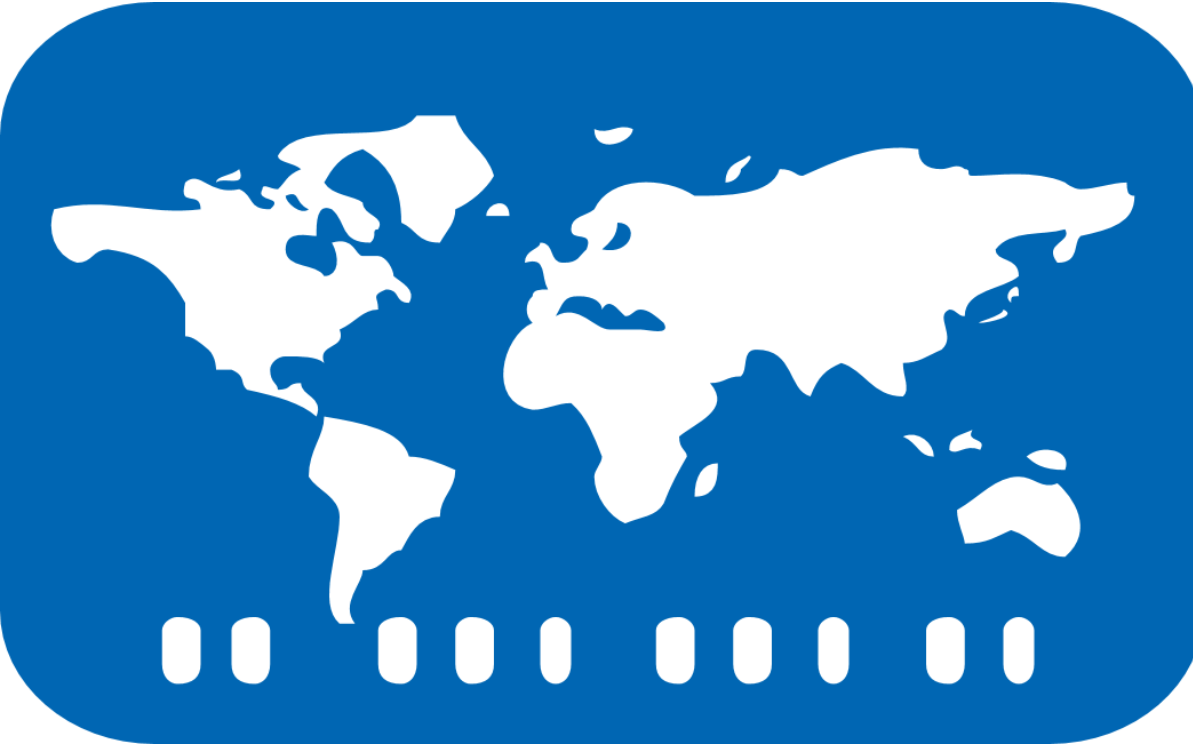
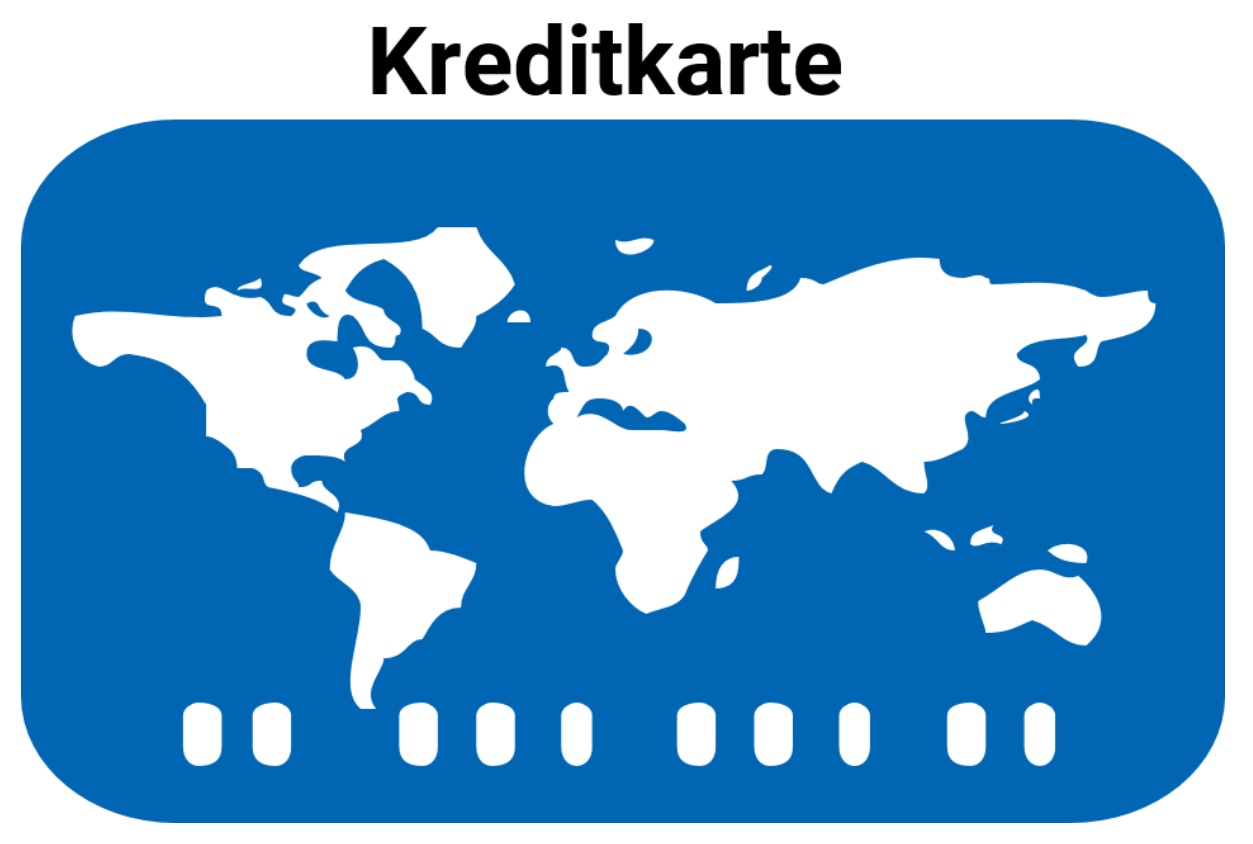
Function

diff --git a/html/ZV.html b/html/ZV.html
@@ -1,4 +1,4 @@
-<!DOCTYPE html>
+<!-- <!DOCTYPE html>
 <title>Zahlungsmittel</title>
 <!-- Compiled and minified CSS -->
 <link rel="stylesheet" href="https://cdnjs.cloudflare.com/ajax/libs/materialize/1.0.0/css/materialize.min.css">
@@ -22,30 +22,32 @@
     </div>
     <div class="row">
         <div class="column">
-            <center><text>Kreditkarte</text></center>
             <img src="../media/KK.png" alt="1" onclick="myFunction(this);">
         </div>
         <div class="column">
-            <img src="globe.png" alt="2" onclick="myFunction(this);">
+            <img src="../media/Bargeld.PNG" alt="d" onclick="myFunction(this);">
         </div>
         <div class="column">
-            <img src="../media/world_map.jpg" alt="3" onclick="myFunction(this);">
+            <img src="../media/Girocard.PNG" alt="z" onclick="myFunction(this);">
 
         </div>
         <div class="column">
-            <img src="logo.png.jpg" alt="4" onclick="myFunction(this);">
+            <img src="logo.png.jpg" alt="q" onclick="myFunction(this);">
         </div>
     </div>
-    <div>
+    <!--Div für Kreditkarte-->
+    <div id="div1">
         <center>
             <h2>Kreditkarte</h2>
         </center>
-        <p><h4 id="headline">Wie funktioniert die Kreditkarte?</h4><br>
+        <p>
+            <h4 id="headline">Wie funktioniert die Kreditkarte?</h4><br>
             Bei unserer Kreditkarte handelt es sich um eine ‚echte‘ Kreditkarte, bei der die Abrechnung ein mal im Monat
             über dein Girokonto erfolgt. Das Kreditkartenlimit passen wir auf deine Bedürfnisse an.
 
             Die Nutzung ist super einfach: Mit deiner Kreditkarte kannst du im Internet oder vor Ort im Geschäft
-            bezahlen. Am Geldautomaten kannt du Bargeld abheben. Wichtig ist, dass du deine PIN bereithältst. </p>
+            bezahlen. Am Geldautomaten kannt du Bargeld abheben. Wichtig ist, dass du deine PIN bereithältst.
+        </p>
         <p><a id="headline">Für was genau kann ich die Kreditkarte nutzen?</a><br>Hier sind ein paar Beispiele: <br><br>
             <a id="headline">Kautionen hinterlegen</a><br>
             Wenn du ein Auto mieten möchtest wird immer eine Kaution verlangt. Mit einer Kaution sichert sich der
@@ -70,20 +72,27 @@
             Beträgen bis 20€ keinen PIN eingeben. Einfach die Karte an das Lesegerät halten!
         </p>
     </div>
+
+    <div id="div2">
+        <center>
+            <h2>Bargeld</h2>
+        </center>
+        <p><a id="headline">Bargeld</a><br>
+            Überall akzeptiert wird Bargeld in der entsprechenden Landeswährung. Trage aber nicht zu viel Bargeld mit
+            Dir herum. Falls du es verlierst oder es geklaut wird ist es weg und du stehst blöd da. Informiere dich bei
+            der Einfuhr über die Zoll-Bestimmungen beim Einführen von viel Bargeld.
+        </p>
+    </div>
     <!-- The expanding image container -->
     <div class="container">
         <!-- Close the image -->
         <span onclick="this.parentElement.style.display='none'" class="closebtn">&times;</span>
-
         <!-- Expanded image -->
-        <img id="expandedImg" style="width:100%">
-
+        <img id="expandedImg" style="width:0%">
         <!-- Image text -->
         <div id="imgtext" style="color:black"></div>
     </div>
-    <center> <a class="waves-effect waves-light btn" id="button2" href="DerCheck.html"
-            onclick="colorChangeButton2()">Weiter</a>
-    </center>
+
     <a class="waves-effect waves-light btn" id="buttonBack" href="summary.html"
         onclick="colorChangeButton2()">Zurück</a>
 
@@ -97,7 +106,6 @@
 
     #headline {
         font-weight: bold
-        
     }
 
     #buttonBack {
@@ -129,6 +137,13 @@
     #check {
         margin-left: 10px;
         margin-top: 120px;
+    }
+
+    #div1{
+        visibility: hidden
+    }
+    #div2{
+        visibility: hidden
     }
 
     #navbar {
@@ -177,6 +192,7 @@
         left: 15px;
         color: white;
         font-size: 20px;
+        visibility: hidden;
     }
 
     /* Closable button inside the image */
@@ -190,7 +206,7 @@
     }
 </style>
 <script>
-    function myFunction(imgs) {
+    function xymyFunction(imgs) {
         // Get the expanded image
         var expandImg = document.getElementById("expandedImg");
         // Get the image text
@@ -198,20 +214,35 @@
         // Use the same src in the expanded image as the image being clicked on from the grid
         expandImg.src = imgs.src;
         // Use the value of the alt attribute of the clickable image as text inside the expanded image
-        imgText.outerHTML = getText(imgs)
+        imgText.outerHTML = getText(imgs);
         // Show the container element (hidden with CSS)
         expandImg.parentElement.style.display = "block";
+
+    }
+    function myFunction(imgs)
+    {
+        switch (imgs.alt) {
+            case "1":
+                document.getElementById("div1").style.visibility = "visible";
+                
+            case "d":
+                document.getElementById("div2").style.visibility="visible";
+            case "z":
+                
+            case "q":
+               
+        }
     }
     function getText(imgs) {
         switch (imgs.alt) {
             case "1":
-                return "Hallo";
+                document.getElementById("div1").style.visibility = "visible";
             case "2":
-                return '<a class="waves-effect waves-light btn" id="button2" href="DerCheck.html" \
-            onclick="colorChangeButton2()">Weiter</a>';
+                document.getElementById("div2").style.visibility="visible";
             case "3":
-                return "Wurst";
-            case "4": return "Test";
+                
+            case "4":
+               
         }
     }
-</script>
+</script> -->
